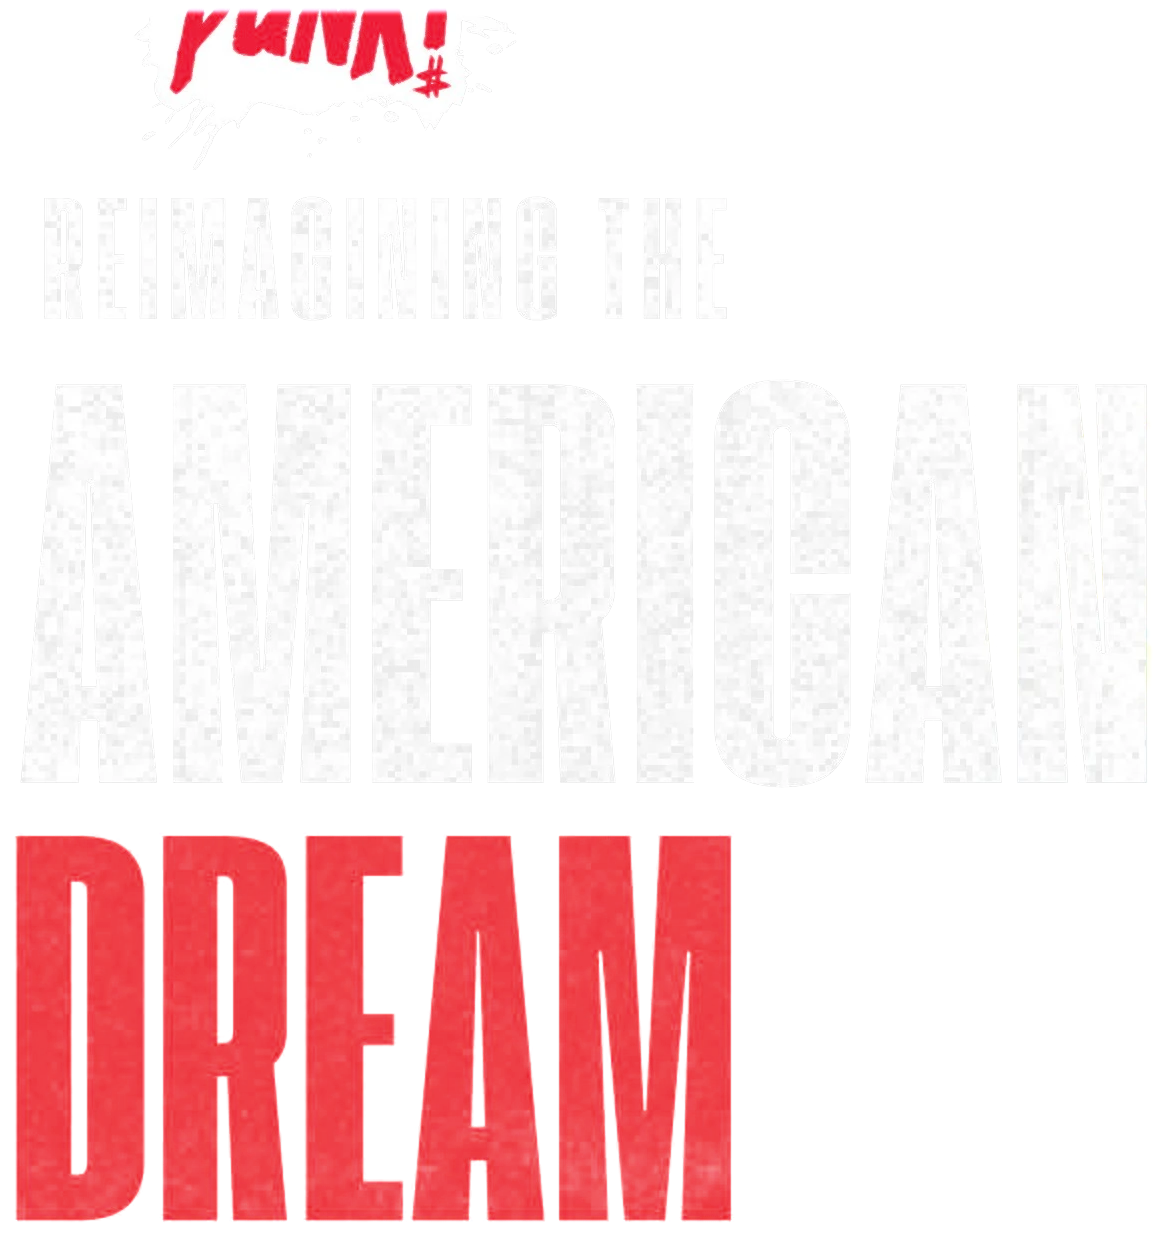
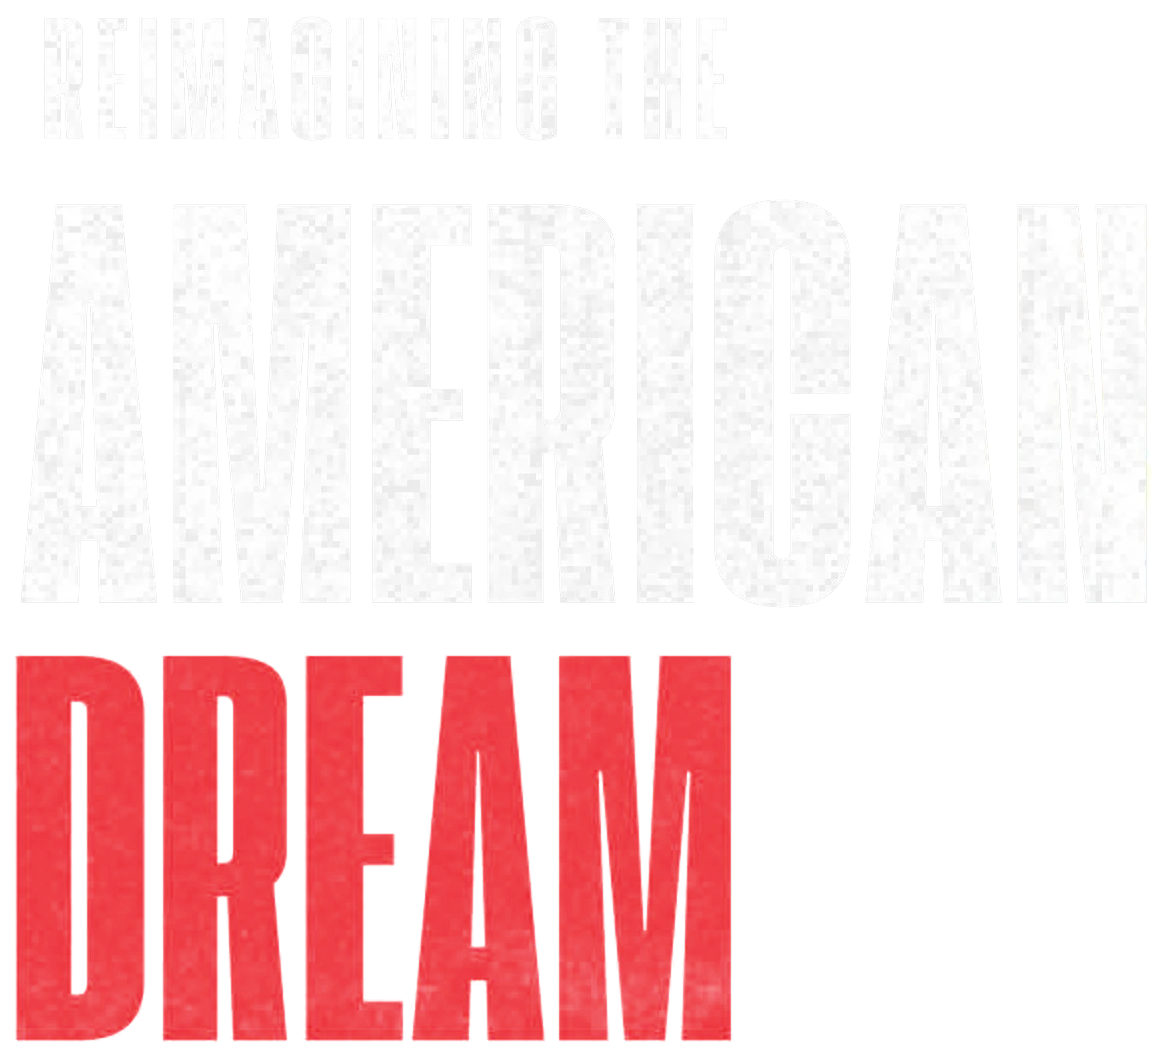
Add files via upload

diff --git a/src/components/sections/CompStage.module.css b/src/components/sections/CompStage.module.css
@@ -68,8 +68,14 @@
    of its own width the script winds up to lands it dead centre. A translate
    resolves against the element's border box and is applied in the parent's
    coordinate system, so it covers the same distance whatever --dz is doing. */
-.heroHeadline{position:absolute;left:3.115%;top:10.481%;
-  width:44.731%;height:76.202%;pointer-events:none;
+/* THE SPLIT BETWEEN THESE TWO IS AT 21.4% AND IT MATTERS. The splat runs
+   down to 20.9% and "REIMAGINING THE" starts at 22.56%, with one empty band
+   between them. The first cut put the headline's window at 11.5%, which took
+   the bottom half of the splat with it — so the logo was two pieces, and
+   scrolling flew half of it away with the headline. If either box is
+   re-measured, check they still do not overlap. */
+.heroHeadline{position:absolute;left:3.115%;top:21.578%;
+  width:44.731%;height:65.105%;pointer-events:none;
   --dx:0%; --dy:0%; --dz:1; --do:1;
   transform:translate3d(var(--dx),var(--dy),0) scale(var(--dz));
   transform-origin:50% 50%;opacity:var(--do);
@@ -88,7 +94,7 @@
    blow-up that size would be half off the frame. Origin at its own top-left
    and a 3.2 peak keeps every frame inside the hero. */
 .heroSplat{position:absolute;left:6.038%;top:1.480%;
-  width:17.692%;height:14.488%;pointer-events:none;
+  width:17.692%;height:20.469%;pointer-events:none;
   transform-origin:10% 0%;
   animation:splatPunch 1.35s linear .5s both}
 .heroSplat img{display:block;width:100%;height:100%}

diff --git a/src/components/layout/Section.module.css b/src/components/layout/Section.module.css
@@ -53,6 +53,14 @@
   -webkit-mask-size:560px 560px;mask-size:560px 560px;
   -webkit-mask-repeat:repeat;mask-repeat:repeat}
 .bone .title,.bone .title em{-webkit-mask-image:none;mask-image:none}
+/* A HEADING THAT CARRIES ARTWORK MUST NOT BE MASKED, for two reasons. The
+   grunge is there to ink typeset type; a drawn wordmark is already printed,
+   so it only muddies it. More importantly a mask clips everything the
+   element paints, descendants included — so this was slicing the echo copies
+   flat where they travel past the heading box, which is the squared-off
+   right edge that kept showing on The Movement however the artwork was cut. */
+.title:has(.titleArt),.title:has(.titleArt) em{
+  -webkit-mask-image:none;mask-image:none}
 .title em{font-style:normal;color:var(--mp-red);
   font-size:clamp(44px,6.6vw,104px);line-height:.86;letter-spacing:-.032em}
 .red .title em{color:#fff}

diff --git a/src/components/sections/CompHero.tsx b/src/components/sections/CompHero.tsx
@@ -187,7 +187,7 @@ export default function CompHero() {
             src="/brand/hero-headline.webp"
             alt=""
             width={1163}
-            height={1236}
+            height={1056}
             sizes="60vw"
             priority
           />
@@ -197,7 +197,7 @@ export default function CompHero() {
             src="/brand/hero-splat.webp"
             alt=""
             width={460}
-            height={235}
+            height={332}
             sizes="48vw"
             priority
           />
